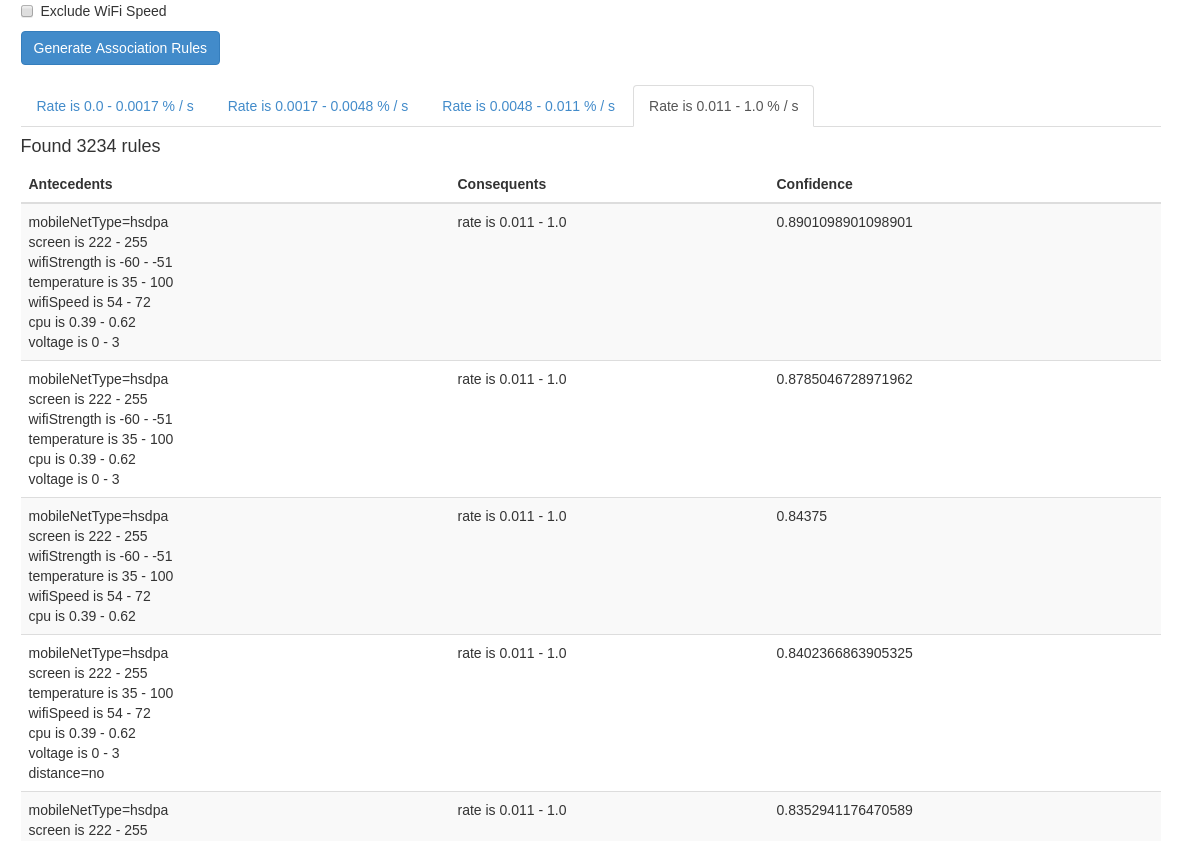
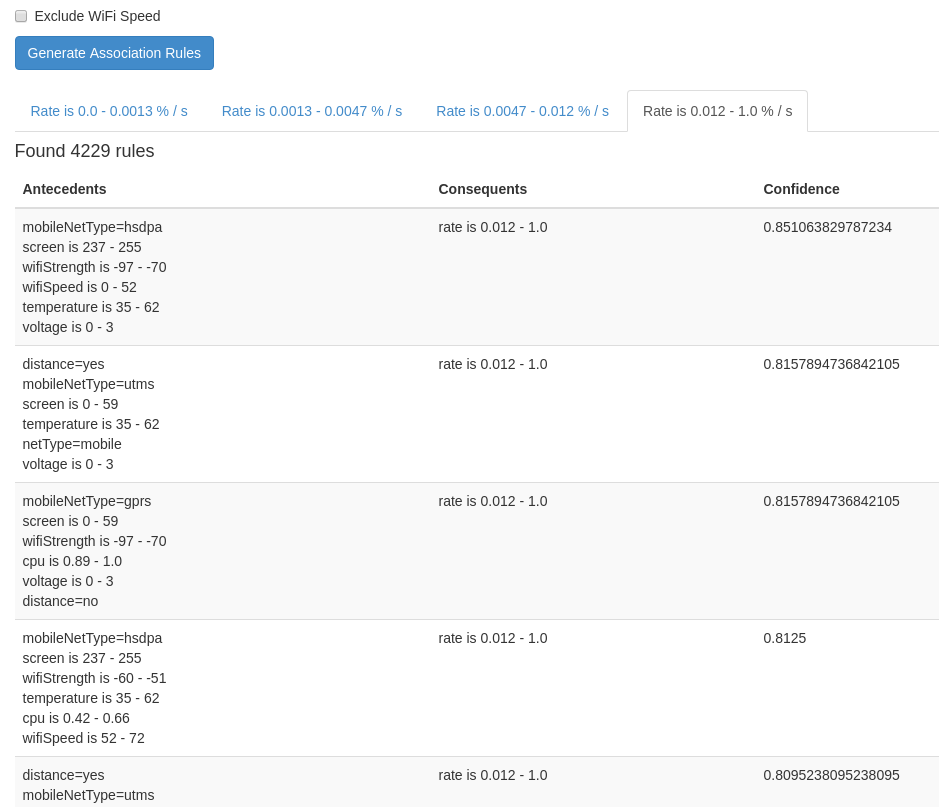
Cleaned up a litle - overlapping things and too wide tables

diff --git a/thesis/chapters/results.tex b/thesis/chapters/results.tex
@@ -99,7 +99,7 @@ The rule generation time increases as either axis approaches zero. The deviance 
 \label{figure:runtimes-spotify}
 \end{figure}
 
-All the experiments were conducted on a Spark cluster which had a single computing server. For each run, 45 CPU cores and 1500 gigabytes of memory were reserved. To mitigate the effect effect of any potential file server load, the dataset was stored in memory using Linux shared memory file system (/dev/shm). The dataset consisted of Carat samples from 22.6.2016 to 22.8.2016, the size of which was a little over 16 gigabytes.
+All the experiments were conducted on a Spark cluster which had a single computing server. For each run, 45 CPU cores and 1500 gigabytes of memory were reserved. To mitigate the effect of any potential file server load, the dataset was stored in memory using Linux shared memory file system (/dev/shm). The dataset consisted of Carat samples from 22.6.2016 to 22.8.2016, the size of which was a little over 16 gigabytes.
 
 
 %\begin{figure}[htp]
@@ -114,3 +114,206 @@ All the experiments were conducted on a Spark cluster which had a single computi
 %\end{figure}  
 
 \subsection{Overview on Generated Rules}
+
+For this section, four popular Android applications were selected to be inspected with the rule generation. The selected applications were com.facebook.katana, com.google.android.chrome, com.google.android.apps.photos and com.spotify.music. To achieve comparable results, the minimum support threshold was fixed to 0.001 and the minimum confidence threshold was fixed to 0.5. Given that the least popular of these applications in the dataset used for this analysis contained little over 420 000 data points, a minimum support threshold of 0.001 means that for each generated rule, there should always be at least 420 data points supporting that rule. For each of these four applications, a total of six of the generated rules were selected for further inspection. These six rules were selected by taking the three most confident rules that predicted high energy consumption rate and the three most confident rules that predicted low energy consumption rate.  
+
+Table~\ref{table:rules-facebook} shows the generated rules for the com.facebook.katana mobile application. Looking at the top three rules that predicted hight energy rate for the application, it seems that using HSDPA type mobile network connection and a high screen brightness were clearly connected to high energy consumption. When these two factors were combined with high battery temperature, we get the most confident of these three rules with a confidence score of 0.5811. As the highest confidence rule in this category had a confidence score of less than 0.6, one can say that there were no clear explanations of high energy consumption to be found by these variables for this particular application. Looking at the three most confident rules for low energy consumption, the common factors seem to be using WiFi connection, low battery temperature and low or medium low CPU usage. Notably, the rules for low energy consumption had significantly greater confidence than the rules for high energy consumption. The highest confidence for these three rules was 0.9985 while the lowest was 0.9964. 
+
+\begin{table} \small%
+\begin{tabular}{|p{5.0cm}|p{3.0cm}|p{2.0cm}|p{1.5cm}|p{0.3cm}| p{0.3cm}|}
+\hline
+Antecedents & Consequent & Confidence \\
+\hline
+	mobileNetType=hsdpa 		& & \\
+	screen is 222 - 255			& rate is 0.011 - 1.0 & 0.5811 \\
+	temperature is 35 - 88		& & \\
+\hline
+	mobileNetType=hsdpa			& & \\
+	screen is 222 - 255			& & \\
+	cpu is 0.39 - 0.62			& rate is 0.011 - 1.0 & 0.5464 \\
+	voltage is 0 - 3			& & \\
+	distance=no					& & \\
+\hline
+	mobileNetType=hsdpa			& & \\
+	screen is 222 - 255			& rate is 0.011 - 1.0 & 0.5432 \\
+	cpu is 0.39 - 0.62			& & \\
+	voltage is 0 - 3			& & \\
+\hline
+	mobileNetType=unknown		& & \\
+	screen is 222 - 255			& & \\
+	wifiStrength is -99 - -69	& rate is 0.0 - 0.00017 & 0.9985 \\
+	cpu is 0.0 - 0.39			& & \\
+	temperature is 5 - 28		& & \\
+	voltage is 3 - 4			& & \\
+\hline
+	mobileNetType=unknown		& & \\
+	screen is 222 - 255			& & \\
+	wifiStrength is -99 - -69	& rate is 0.0 - 0.00017 & 0.9974 \\
+	wifiSpeed is 54 - 72		& & \\
+	cpu is 0.39 - 0.62			& & \\
+	temperature is 5 - 28		& & \\
+	voltage is 0 - 3			& & \\
+\hline
+	mobileNetType=unknown		& & \\
+	screen is 222 - 255			& & \\
+	wifiSpeed is 0 - 54			& rate is 0.0 - 0.00017 & 0.9964 \\
+	cpu is 0.39 - 0.62			& & \\
+	temperature is 5 - 28		& & \\
+	voltage is 3 - 4			& & \\
+\hline
+\end{tabular}
+	\caption{Selected rules for the com.facebook.katana mobile application}
+	\label{table:rules-facebook}
+\end{table}
+
+In Table~\ref{table:rules-android-photos} shows the selected rules for the com.google.android.apps.photos application. In this case, the factors that indicated high energy consumption were using GPRS for mobile networking, having weak WiFi singnal strength and low WiFi signal speed and low battery voltage. The low battery voltage may indicate a certain set of mobile devices that perform poorly when the other factors are also present. The confidence of these rules were reasonable, ranging from 0.7100 to 0.7074. The most confident rules for low energy consumption all had the common factors of using UTMS mobile network connection, high WiFi link speed, medium low CPU usage and weirdly enough, high screen brightness. 
+
+\begin{table} \small%
+\begin{tabular}{|p{5.0cm}|p{3.0cm}|p{2.0cm}|p{1.5cm}|p{0.3cm}| p{0.3cm}|}
+\hline
+Antecedents & Consequent & Confidence \\
+\hline
+	mobileNetType=gprs				& & \\
+	wifiStrength is -100 - -68		& & \\
+	wifiSpeed is 0 - 54				& & \\
+	netType=wifi					& rate is 0.011 - 1.0 & 0.7100 \\
+	voltage is 0 - 3				& & \\
+	distance=no						& & \\
+\hline
+	mobileNetType=gprs				& & \\
+	wifiStrength is -100 - -68		& & \\
+	wifiSpeed is 0 - 54				&  rate is 0.011 - 1.0 & 0.7082 \\
+	voltage is 0 - 3				& & \\
+	distance=no						& & \\
+\hline
+	mobileNetType=gprs				& & \\
+	wifiStrength is -100 - -68		& & \\
+	wifiSpeed is 0 - 54				& rate is 0.011 - 1.0 & 0.7074 \\
+	netType=wifi					& & \\
+	voltage is 0 - 3				& & \\
+\hline
+	screen is 220 - 255				& & \\
+	mobileNetType=utms				& & \\
+	wifiSpeed is 144 - 6477		& rate is 0.0 - 0.0015 & 0.9966 \\
+	wifiStrength is -68 - -59		& & \\
+	cpu is 0.42 - 0.67				& & \\
+\hline
+	screen is 220 - 255				& & \\
+	mobileNetType=utms				& & \\
+	wifiSpeed is 144 - 6477		& rate is 0.0 - 0.0015 & 0.9965 \\
+	wifiStrength is -68 - -59		& & \\
+	cpu is 0.42 - 0.67				& & \\
+	voltage is 3 - 4				& & \\
+\hline
+	screen is 220 - 255				& & \\
+	mobileNetType=utms				& & \\
+	wifiSpeed is 144 - 6477		& rate is 0.0 - 0.0015 & 0.9936 \\
+	cpu is 0.42 - 0.67				& & \\
+	voltage is 3 - 4				& & \\
+\hline
+\end{tabular}
+	\caption{Selected rules for the com.google.android.apps.photos mobile application}
+	\label{table:rules-android-photos}
+\end{table}
+
+Table~\ref{table:rules-chrome} shows the selected rules for the com.android.chrome mobile application. There were no rules, within the given confidence constraint, that predicted an energy consumption rate in the highest quantile, so instead the three top rules in the table are the three highest confidence rules that predicted an energy consumption rate in the third quantile within the samples where the Chrome application was running. Within the rules which predicted high energy consumption, common factors were high screen brightness, high battery temperature, fast WiFi link speed and using LTE type mobile networking. The confidence of these rules ranged from 0.6519 to 0.65. Looking at the rules which predicted low energy consumption, common factors were low battery temperature, fast WiFI link speed, mobile networking type UTMS and again, oddly enough, a high screen brightness. The confidence of the rules predicting low energy consumption were again very high, ranging from 0.9985 to 0.9964.   
+
+\begin{table} \small%
+\begin{tabular}{|p{5.0cm}|p{3.0cm}|p{2.0cm}|p{1.5cm}|p{0.3cm}| p{0.3cm}|}
+\hline
+Antecedents & Consequent & Confidence \\
+\hline
+	screen is 206 - 255 			& & \\
+	wifiSpeed is 135 - 4728		& & \\ 
+	temperature is 34 - 88  		& rate is 0.0046 - 0.011 &  0.6519 \\
+	mobileNetType=lte				& & \\
+	netType=wifi					& & \\
+\hline
+	screen is 206 - 255				& & \\
+	wifiSpeed is 135 - 4728 		& rate is 0.0046 - 0.011 & 0.6506 \\
+	temperature is 34 - 88			& & \\
+	mobileNetType=lte				& & \\
+\hline
+	screen is 206 - 255				& & \\
+	wifiSpeed is 135 - 4728 		& & \\
+	temperature is 34 - 88			& rate is 0.0046 - 0.011  & 0.65 \\
+	mobileNetType=lte				& & \\
+	netType=wifi					& & \\
+	distance=no						& & \\
+\hline
+	screen is 206 - 255				& & \\
+	mobileNetType=utms				& & \\
+	wifiSpeed is 135 - 4728		& rate is 0.0 - 0.0015 & 0.9893 \\
+	wifiStrength is -68 - -59		& & \\
+	voltage is 3 - 4				& & \\
+\hline
+	screen is 206 - 255				& & \\
+	mobileNetType=utms				& & \\
+	wifiSpeed is 135 - 4728		& rate is 0.0 - 0.0015 & 0.9822 \\
+	temperature is 5 - 28			& & \\
+	voltage is 3 - 4				& & \\
+\hline
+	screen is 206 - 255				& & \\
+	mobileNetType=utms				& rate is 0.0 - 0.0015 & 0.9749 \\
+	wifiSpeed is 135 - 4728		& & \\
+	temperature is 5 - 28			& & \\
+\hline
+\end{tabular}
+	\caption{Selected rules for the com.google.android.chrome mobile application}
+	\label{table:rules-chrome}
+\end{table}
+
+In Table~\ref{table:rules-spotify} are listed the selected rules for the com.spotify.music mobile application. In the context of the rules that predict high energy consumption, factors high screen brightness, high WiFi link speed, quite low wiFi signal strength, medium high battery temperature and medium high CPU usage are all shared. Two out of three of these rules also share the factor mobile networking type LTE and low battery voltage. The confidence of these rules ranged from 0.8852 to 0.8821, which compared to the other application's high energy rules, seems very high. Among the rules that predicted low energy consumption, shared factors were mobile networking type UTMS, a medium high CPU usage, and a medium low wiFi signal strength. Factors that were shared by two out of the three rules included high screen brightness, low battery temperature and high WiFi link speed. The confidence score of all three of these rules was 1.0. 
+
+\begin{table} \small%
+\begin{tabular}{|p{5.0cm}|p{3.0cm}|p{2.0cm}|p{1.5cm}|p{0.3cm}| p{0.3cm}|}
+\hline
+Antecedents & Consequent & Confidence \\
+\hline
+	screen is 210 - 255 		& & \\
+	wifiSpeed is 144 - 866		& & \\
+	wifiStrength is -68 - -59	& & \\
+	temperature is 34 - 60		& rate is 0.012 - 1.0 & 0.8852 \\
+	cpu is 0.61 - 0.84			& & \\
+	mobileNetType=lte			& & \\
+	voltage is 0 - 3			& & \\
+\hline
+	screen is 210 - 255			& & \\
+	wifiSpeed is 144 - 866		& & \\
+	wifiStrength is -68 - -59	& rate is 0.012 - 1.0 & 0.8821 \\
+	temperature is 34 - 60		& & \\
+	cpu is 0.61 - 0.84			& & \\
+	voltage is 0 - 3			& & \\
+\hline
+	screen is 210 - 255			& & \\
+	wifiSpeed is 144 - 866		& & \\
+	wifiStrength is -68 - -59	& rate is 0.012 - 1.0 & 0.8821 \\
+	temperature is 34 - 60		& & \\
+	cpu is 0.61 - 0.84			& & \\
+	mobileNetType=lte			& & \\
+\hline
+	mobileNetType=utms			& & \\
+	wifiSpeed is 144 - 866		& & \\
+	wifiStrength is -68 - -59	& rate is 0.0 - 0.0016 & 1.0 \\
+	cpu is 0.61 - 0.84			& & \\
+	temperature is 12 - 28		& & \\
+	voltage is 3 - 4			& & \\
+\hline
+	screen is 210 - 255			& & \\
+	mobileNetType=utms			& & \\
+	wifiStrength is -68 - -59	& rate is 0.0 - 0.0016 & 1.0 \\
+	cpu is 0.61 - 0.84			& & \\
+	temperature is 12 - 28		& & \\
+\hline
+	screen is 210 - 255			& & \\
+	mobileNetType=utms			& & \\
+	wifiSpeed is 144 - 866		& rate is 0.0 - 0.0016 & 1.0 \\
+	wifiStrength is -68 - -59	& & \\
+	cpu is 0.61 - 0.84			& & \\
+\hline
+\end{tabular}
+	\caption{Selected rules for the com.spotify.music mobile application}
+	\label{table:rules-spotify}
+\end{table}
+
+The generated example rules are generally not very intuitive and some of the relations, such as the contribution of high screen brightness to low energy consumption, are outright counter intuitive. On the bright side, the system is able to find rules with very high confidence even with a reasonably high support threshold of 0.001. The choice of application also seems to have a reasonable impact on the generated rules, which is promising for the usability of the system. Perhaps interesting is the fact that more confident rules seem to be generated for the low energy consumption than for the high energy consumption. Even if the system is not able to predict with any reasonable accuracy which factors lead to large levels of energy consumption when using a certain application, it might be useful to be able predict with acceptable accuracy which combinations of factors lead to low levels of energy consumption. At the very least, this kind of prediction could be a valuable addition to a recommendation system like the one described in~\cite{PELTONEN201671}.     

diff --git a/thesis/chapters/implementation.tex b/thesis/chapters/implementation.tex
@@ -47,7 +47,7 @@ The first input field accepts the name of the application. The input field was c
 	\label{figure:frontend-selectize}
 \end{figure} 
 
-The second and third input fields allow the user to specify the minimum support threshold and the minimum confidence threshold respectively, for the association rule generation. Above above each of these two input fields are icons with question marks. These icons, when hovered over, will display an explanation about the variable in question. This functionality is illustrated in Figure~\ref{figure:frontend-icon-pop-over} for the minimum support threshold. The icon for minimum confidence threshold functions similarly. 
+The second and third input field allow the user to specify the minimum support threshold and the minimum confidence threshold respectively, for the association rule generation. Above each of these two input fields are icons with question marks. These icons, when hovered over, will display an explanation about the variable in question. This functionality is illustrated in Figure~\ref{figure:frontend-icon-pop-over} for the minimum support threshold. The icon for minimum confidence threshold functions similarly. 
 
 Finally, the form contains a check box for each variable that is included in the association analysis. By checking any of these check boxes, the user can exclude a variable from the analysis. 
 
@@ -125,7 +125,8 @@ The traits \textit{FutureSupport} and \textit{JacksonJsonSupport} indicate, that
 \subsection{Analysis Engine}
 
 \begin{wrapfigure}{r}{0.35\textwidth}
-	\vspace{-110pt}
+	%\vspace{-110pt}
+	\vspace{-78pt}
 	\begin{center}
 		\includegraphics[width=0.3\textwidth]{images/analysis_engine_flow_graph.png}
 	\end{center}
@@ -254,7 +255,7 @@ Using this partial function in conjunction with the methods \textit{getQuantiles
 
 To summarise: in order to discretize a variable such as \textit{screen}, which is assumed to be a collection of type \textit{RDD[Double]}, one could fist calculate the quantiles of data using the method \textit{getFeatureFromQuantiles}. One must then define a partial function, such as the one mentioned above, that filters out invalid data points and handles values with special significance. Finally, the method \textit{getFeatureFromQuantiles} could be applied to each data point of the collection using the partial function and the quantiles.
 
-Having ediscretized all the variables of the dataset, using the procedure discussed above, one ends up with one array of strings for each sample, which is represented in Spark by type \textit{RDD[Array[String]]}. To generate the association rules from these discrete features, MLlib, a machine learning library for Spark was used. The library implements a parallel FPGrowth algorithm for this purpose. The FPGrowth implementation has a limitation however, in that it can only generate rules with single consequent. The limitation is not terribly severe for the purpose of this thesis, as the main interest lies in finding out which variables affect the battery usage. Therefore being limited to rules which have as their sole consequent a feature extracted from the energy rate variable, should be sufficient. The following snippet of code illustrates how to generate association rules using the MLlib API.
+Having ediscretized all the variables of the dataset, using the procedure discussed above, one ends up with one array of strings for each sample, which is represented in Spark by type \textit{RDD[Array[String]]}. To generate the association rules from these discrete features, MLlib, a machine learning library for Spark was used. The library implements a parallel FPGrowth algorithm~\cite{Li:2008:PPF:1454008.1454027} for this purpose. The FPGrowth implementation has a limitation however, in that it can only generate rules with single consequent. The limitation is not terribly severe for the purpose of this thesis, as the main interest lies in finding out which variables affect the battery usage. Therefore being limited to rules which have as their sole consequent a feature extracted from the energy rate variable, should be sufficient. The following snippet of code illustrates how to generate association rules using the MLlib API.
 
 \begin{minipage}{\linewidth}
 \begin{lstlisting}[language=scala] 

diff --git a/thesis/chapters/association_analysis.tex b/thesis/chapters/association_analysis.tex
@@ -16,20 +16,47 @@ Let us consider a hypothetical dataset shown in table~\ref{table:raw-data}. The 
 	\label{table:raw-data}
 \end{table}
 
-Since association rule mining requires each variable of the database to be binary valued, a discretization of the variables must be performed. To discretize a continuously valued variable, we need to replace the continuous variable with multiple binary valued variables, each corresponding to an interval or cluster of values of the continuous variable. The details of discretization are discussed in chapter ???. For now, let us consider a naive discretization strategy, where each continuous variable is split to two binary variables by creating two bins at cut point 0.5. Table~\ref{table:discreteData} demonstrates this idea.
+Since association rule mining requires each variable of the database to be binary valued, a discretization of the variables must be performed. To discretize a continuously valued variable, we need to replace the continuous variable with multiple binary valued variables, each corresponding to an interval or cluster of values of the continuous variable. The details of discretization of Carat data were discussed in chapter~\ref{carat data}. For simplicity, let us consider a simple discretization strategy, where each continuous variable is split to two binary variables by creating two bins at cut point 0.5. Tables \ref{table:discreteData-1} and \ref{table:discreteData-2} demonstrates this idea.
+
+%\begin{table}[htb]
+%    \begin{tabular}{ | l | l | l | l | l | l | }
+%    \hline
+%    \textbf{energy=low} & \textbf{energy=high} & \textbf{CPU=low} & \textbf{CPU=high} & \textbf{screen=low} & \textbf{screen=high} \\ \hline
+%    True & False & False & True & True & False \\ \hline 
+%    False & True & True & False & False & True \\ \hline 
+%    False & True & False & True & False & True \\ \hline 
+%    False & True & False & True & False & True \\ \hline 
+%    \end{tabular}
+%	\caption{Hypothetical mobile device measurements after naive discretization}
+%	\label{table:discreteData}
+%\end{table}
 
 \begin{table}[htb]
-    \begin{tabular}{ | l | l | l | l | l | l | }
+    \begin{tabular}{ | l | l | l | }
     \hline
-    \textbf{energy=low} & \textbf{energy=high} & \textbf{CPU=low} & \textbf{CPU=high} & \textbf{screen=low} & \textbf{screen=high} \\ \hline
-    True & False & False & True & True & False \\ \hline 
-    False & True & True & False & False & True \\ \hline 
-    False & True & False & True & False & True \\ \hline 
-    False & True & False & True & False & True \\ \hline 
+    \textbf{energy=low} & \textbf{energy=high} & \textbf{CPU=low} \\ \hline
+    True & False & False  \\ \hline 
+    False & True & True  \\ \hline 
+    False & True & False  \\ \hline 
+    False & True & False  \\ \hline
     \end{tabular}
-	\caption{Hypothetical mobile device measurements after naive discretization}
-	\label{table:discreteData}
+	\caption{Hypothetical mobile device measurements after discretization using long notation. First half of the columns.}
+	\label{table:discreteData-1}
 \end{table}
+
+\begin{table}[htb]
+    \begin{tabular}{ | l | l | l | }
+    \hline
+    \textbf{CPU=high} & \textbf{screen=low} & \textbf{screen=high} \\ \hline
+	True & True & False \\ \hline
+	False & False & True \\ \hline    
+    True & False & True \\ \hline
+    True & False & True \\ \hline
+    \end{tabular}
+	\caption{Hypothetical mobile device measurements after discretization using long notation. Second half of the columns.}
+	\label{table:discreteData-2}
+\end{table}
+
 
 Since every group of variables that is created by discretization is mutually exclusive, a more concise notation for this dataset can be used, as shown in table~\ref{table:discreteDataConcise}.
 
